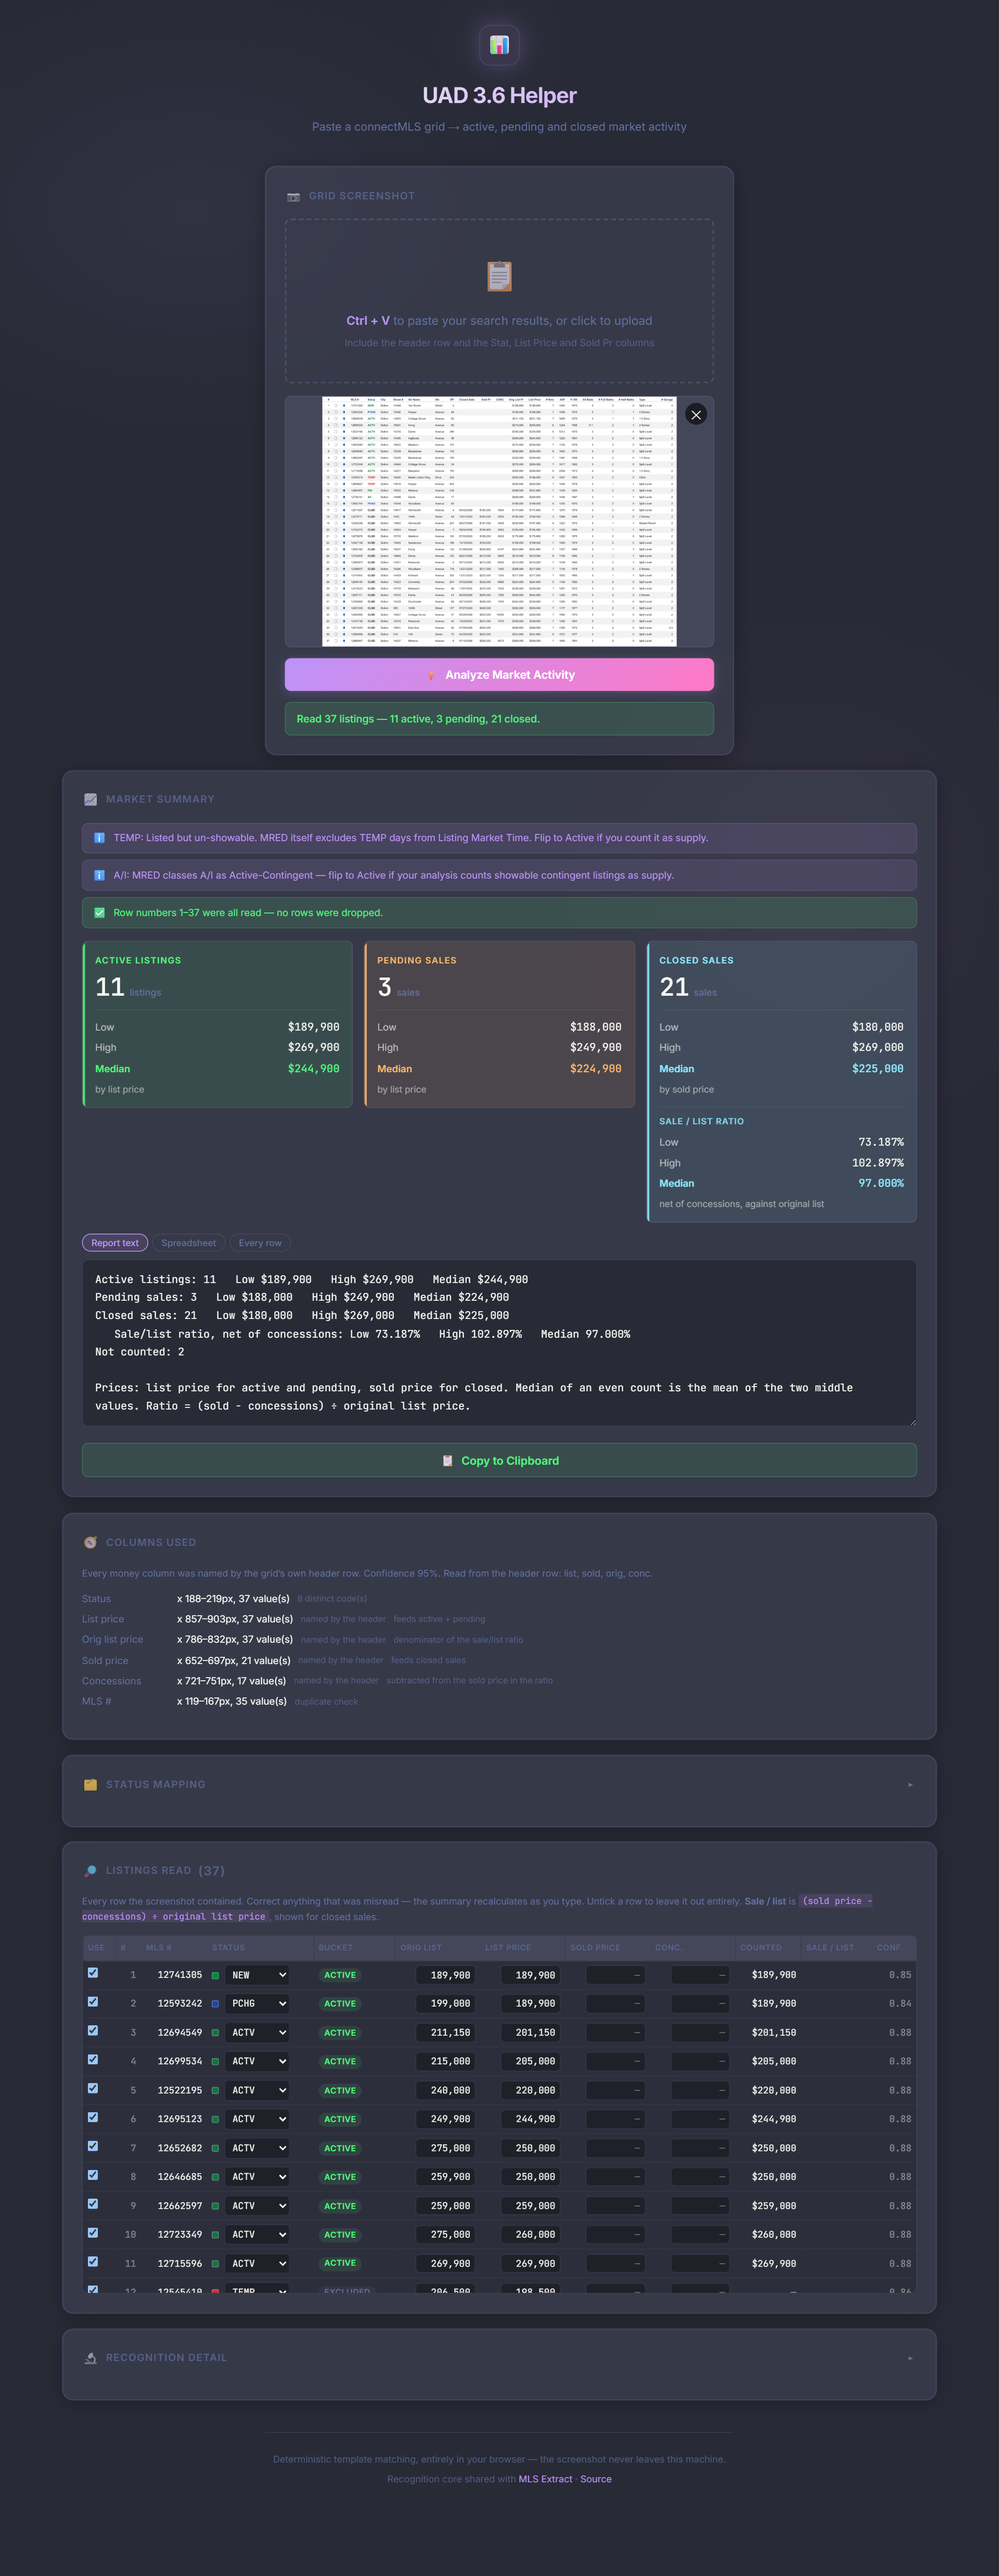
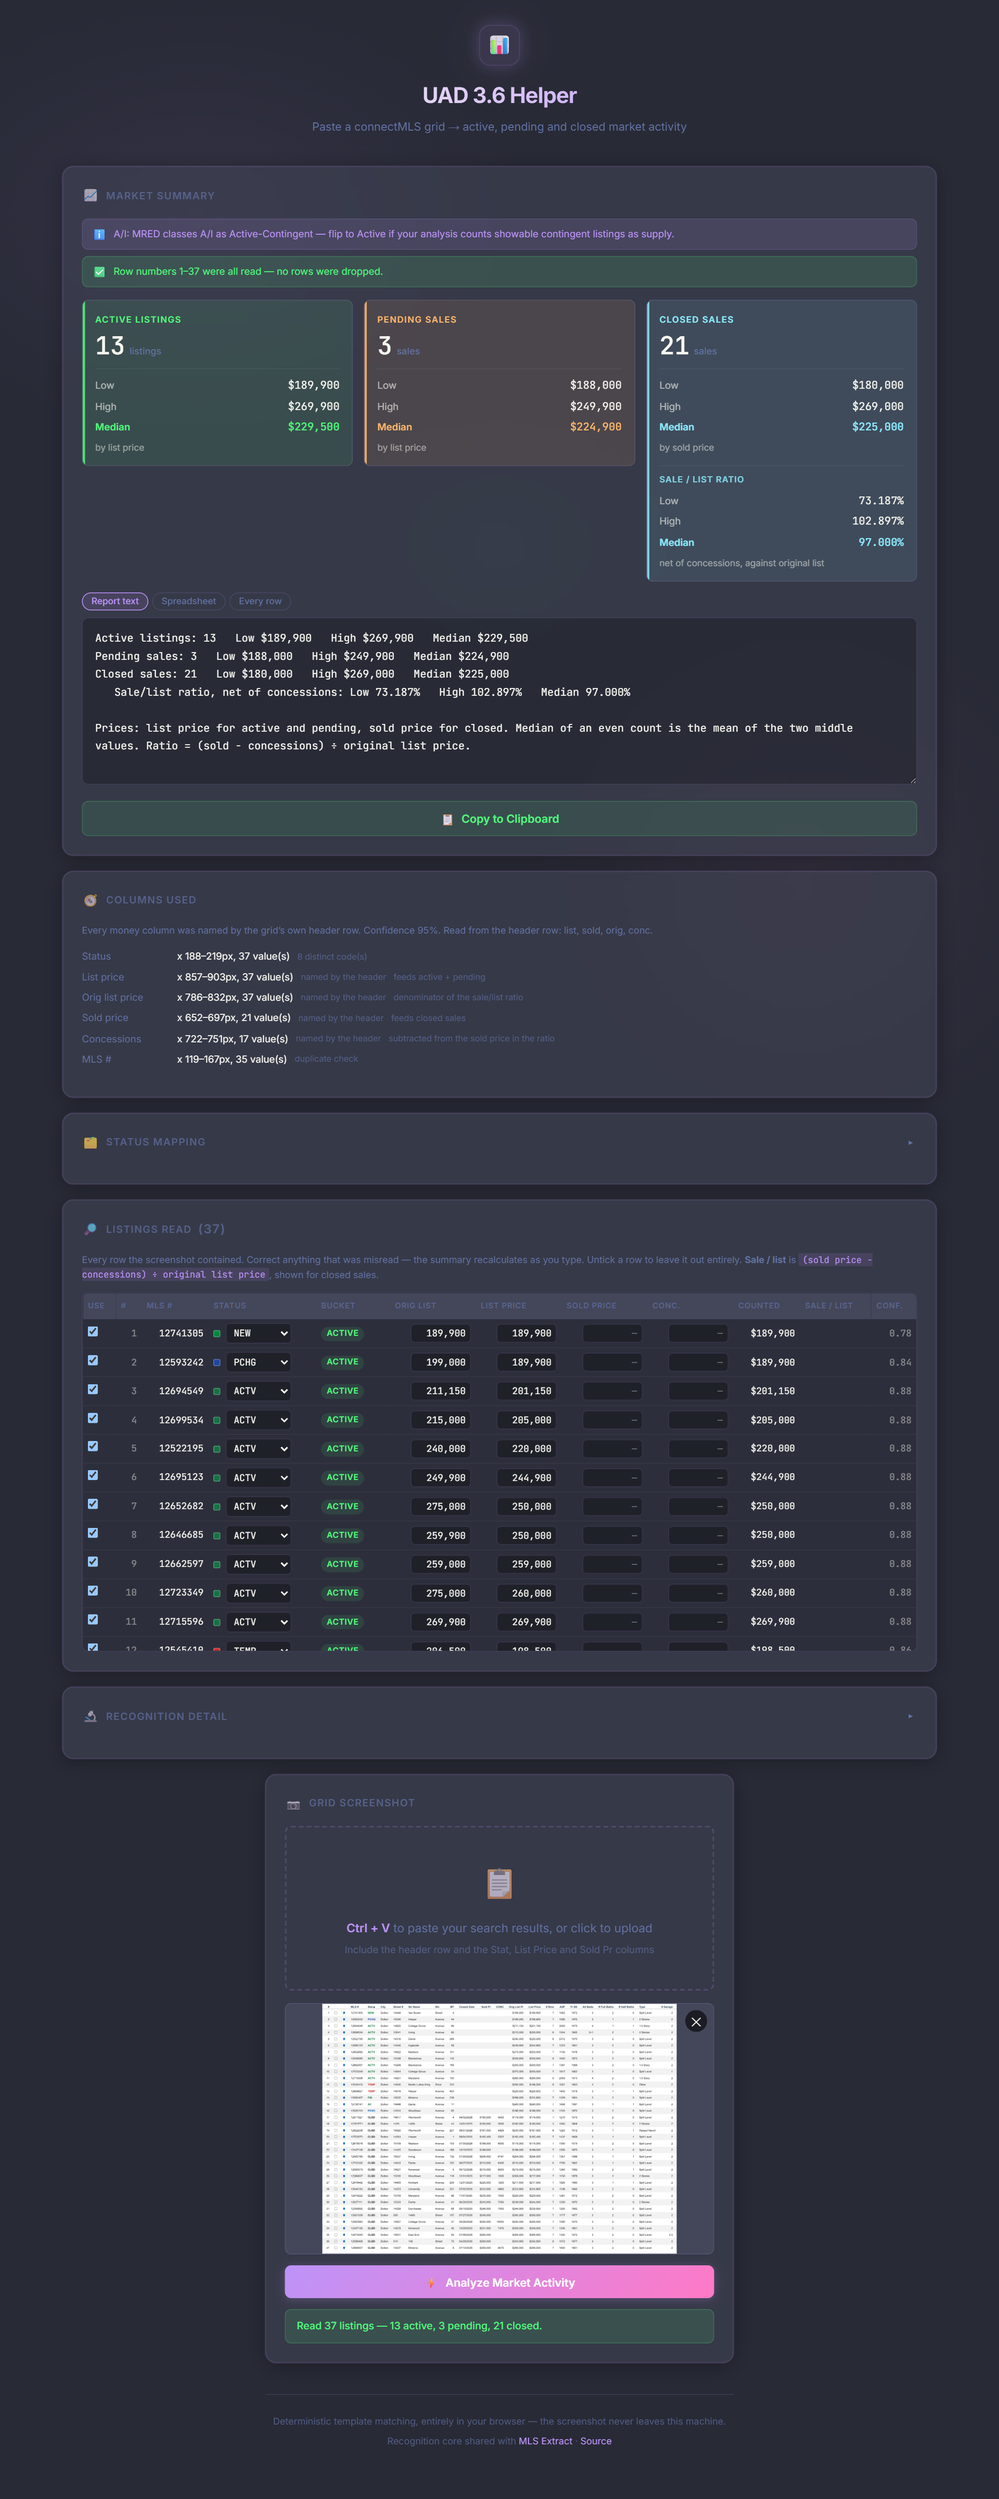
Move the paste box below the results once there are results
Above them while there are none, because that is the only thing to do; below
them once there are, because the numbers are what you came for and scrolling
past a thumbnail of your own screenshot to reach them every time is friction.
It moves back up on clear, and on a reading that failed, where the box is again
the only useful thing on screen.

The node is moved rather than reordered with flexbox, so the card margins —
which are adjacency-based — stay correct in both arrangements. If the reorder
leaves the summary off screen, it is scrolled into view.

Changed region(s): [[0.0625, 0.0625, 0.9375, 0.9683], [0.4375, 0.0312, 0.5938, 0.0625]]

diff --git a/app.js b/app.js
@@ -39,6 +39,9 @@ const reviewCard   = $('#review-card');
 const reviewBody   = $('#review-body');
 const reviewCount  = $('#review-count');
 const debugCard    = $('#debug-card');
+const inputCard    = $('#input-card');
+const appContainer = $('.app-container');
+const appFooter    = $('.app-footer');
 
 /* ---- State ---- */
 let currentImageBlob = null;
@@ -160,6 +163,7 @@ function resetResults() {
 }
 
 function resetState() {
+  placeInputCard('top');
   currentImageBlob = null;
   previewImg.src = '';
   previewWrap.classList.add('hidden');
@@ -168,6 +172,27 @@ function resetState() {
   resetResults();
   clearStatus();
   progressWrap.classList.add('hidden');
+}
+
+/**
+ * Where the paste box sits.
+ *
+ * Above the results while there are none, because that is the only thing to
+ * do; below them once there are, because the numbers are what you came for and
+ * scrolling past the screenshot to reach them every time is friction. Moving
+ * the node rather than reordering with flexbox keeps the card margins — which
+ * are adjacency-based — correct in both arrangements.
+ */
+function placeInputCard(where) {
+  const anchor = where === 'bottom' ? appFooter : summaryCard;
+  if (inputCard.nextElementSibling !== anchor) appContainer.insertBefore(inputCard, anchor);
+}
+
+/** Bring the summary into view if the reorder left it off screen. */
+function revealSummary() {
+  const box = summaryCard.getBoundingClientRect();
+  if (box.top >= 0 && box.top < window.innerHeight * 0.5) return;
+  summaryCard.scrollIntoView({ behavior: 'smooth', block: 'start' });
 }
 
 /* ================================================================== */
@@ -221,6 +246,7 @@ async function runAnalysis() {
 
     summaryCard.classList.remove('hidden');
     if (result.failed || rows.length === 0) {
+      placeInputCard('top');
       renderNotices(result.warnings || []);
       summaryGrid.innerHTML = '';
       showStatus('No listings could be read from this image.', 'error');
@@ -231,6 +257,8 @@ async function runAnalysis() {
     for (const card of [columnsCard, mappingCard, reviewCard, debugCard]) {
       card.classList.remove('hidden');
     }
+    placeInputCard('bottom');
+    revealSummary();
 
     renderColumns(result);
     recompute();
@@ -248,6 +276,7 @@ async function runAnalysis() {
     );
   } catch (err) {
     if (stale()) return;
+    placeInputCard('top');
     console.error(err);
     showStatus(`Analysis failed: ${err.message || 'the image could not be read'}`, 'error');
     setProgress(100, 'Failed');

diff --git a/README.md b/README.md
@@ -26,6 +26,9 @@ browser flags either way.
 2. `Ctrl+V` into the page (or click to upload).
 3. Read the three cards. Check the review table underneath. Copy.
 
+The paste box moves below the results once there is something to show, so the
+numbers are the first thing on the page on every subsequent paste.
+
 ### What it computes
 
 | Bucket | Rows | Price used |
